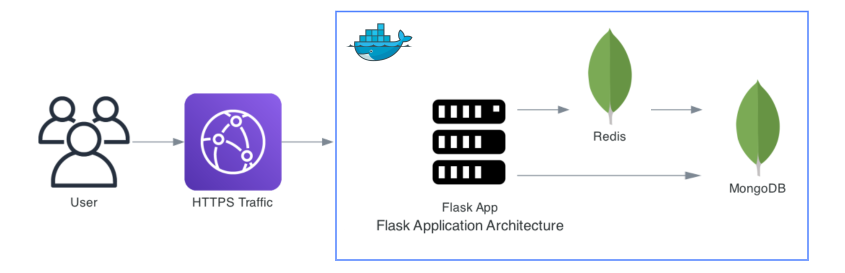
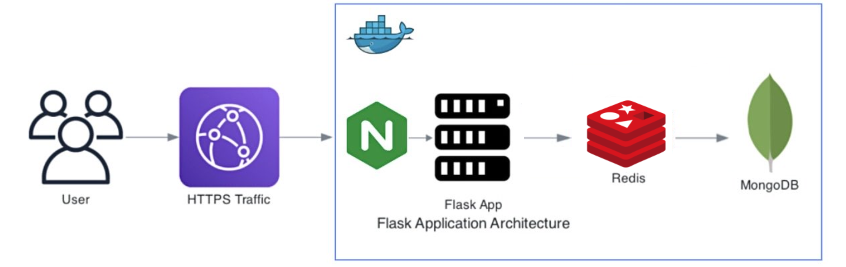
Adjusting order, small details

Changed region(s): [[0.0308, 0.0, 0.9846, 0.9888], [0.4308, 0.7191, 0.6769, 0.8689]]

diff --git a/README.md b/README.md
@@ -4,11 +4,11 @@
 * [Overview](#overview)
 * [Technologies Used](#technologies-used)
 * [Requirements](#requirements)
-* [Architecture Diagram](#architecturediagram)
+* [Architecture Diagram](#architecture-diagram)
 * [Usage](#usage)
-* [Setup Instructions](#setupinstructions)
-* [Understanding Codebase](#understandingcodebase)
-* [Troubleshooting Guide](#troubleshootingguide)
+* [Setup Instructions](#setup-instructions)
+* [Understanding Codebase](#understanding-codebase)
+* [Troubleshooting Guide](#troubleshooting-guide)
 * [Contributing](#contributing)
 * [Credits](#credits)
 
@@ -16,7 +16,7 @@
 This simple web application allows visitors to make a decision whether to share their data or not. Users are presented with two clear options: "Grant" or "Reject".
 
 - **Grant Permission:**
-  - If a visitor selects "Grant", their IP address, ID, date, and time of the selected option are stored in the database. This information is then displayed on subsequent visits, ensuring transparency and accountability regarding data storage, ensuring GDPR compliance and user accountability.
+  - If a visitor selects "Grant", their IP address, ID, date, and time of the selected option are stored in the database. This information is then displayed on subsequent visits, ensuring transparency and accountability regarding data storage, GDPR compliance, and user accountability.
 
 - **Reject Permission:**
   - Opting for "Reject" hashes the visitor's IP address and stores it in the database. On future visits, if the hashed IP matches, a message indicating rejection is displayed. The application informs the user of their previous rejection decision, upholding user privacy rights.
@@ -35,33 +35,10 @@ This simple web application allows visitors to make a decision whether to share 
 - **CERT-Bot:** An open-source tool used for automating the process of obtaining SSL certificates from certificate authorities (CAs) like Let's Encrypt. It simplifies the management of SSL/TLS certificates, ensuring secure communication between the web server and clients.
 
 ## Requirements
-IGD Data Storage requires Docker Engine latest version
+IGD Data Storage requires Docker Engine`s latest version
 
 ## Architecture Diagram
 ![Main Page](/images/architecture.png)
-
-## Setup Instructions
-
-1. Clone the repository:
-```
-git clone https://github.com/Iguana2024/sprint3.git
-```
-
-2. Install Docker on your machine if not already installed.
-```shell
-# Check if Docker is installed:
-docker --version
-# Check if the Docker service is running:
-sudo systemctl status docker
-```
-[Get](https://docs.docker.com/engine/install/) the official guidelines for installing Docker.
-
-3. Build and run the Docker container:
-```
-docker-compose up --build
-```
-
-4. Access the application in a web browser at `https://localhost:90`
 
 ## Usage
 - Visit the main page.
@@ -72,6 +49,36 @@ docker-compose up --build
 - Use the "Erase Data" link to remove granted permission or rejection and return to the main page. <br>
 
 ![Main Page](/images/1.png)
+
+## Setup Instructions
+1. Clone the repository:
+```
+git clone https://github.com/Iguana2024/sprint3.git
+```
+
+2. Сreate directory 'certs' and put your ssl certificates there
+```shell
+# Сreate directory 'certs':
+mkdir certs/
+# put your ssl certificates there:
+cp your/certificates/path certs/
+```
+
+3. Install Docker on your machine if not already installed.
+```shell
+# Check if Docker is installed:
+docker --version
+# Check if the Docker service is running:
+sudo systemctl status docker
+```
+[Get](https://docs.docker.com/engine/install/) the official guidelines for installing Docker.
+
+4. Build and run the Docker container:
+```
+docker-compose up --build
+```
+
+4. Access the application in a web browser at `https://localhost:90`
 
 ## Understanding Codebase
 - **home.py:**
